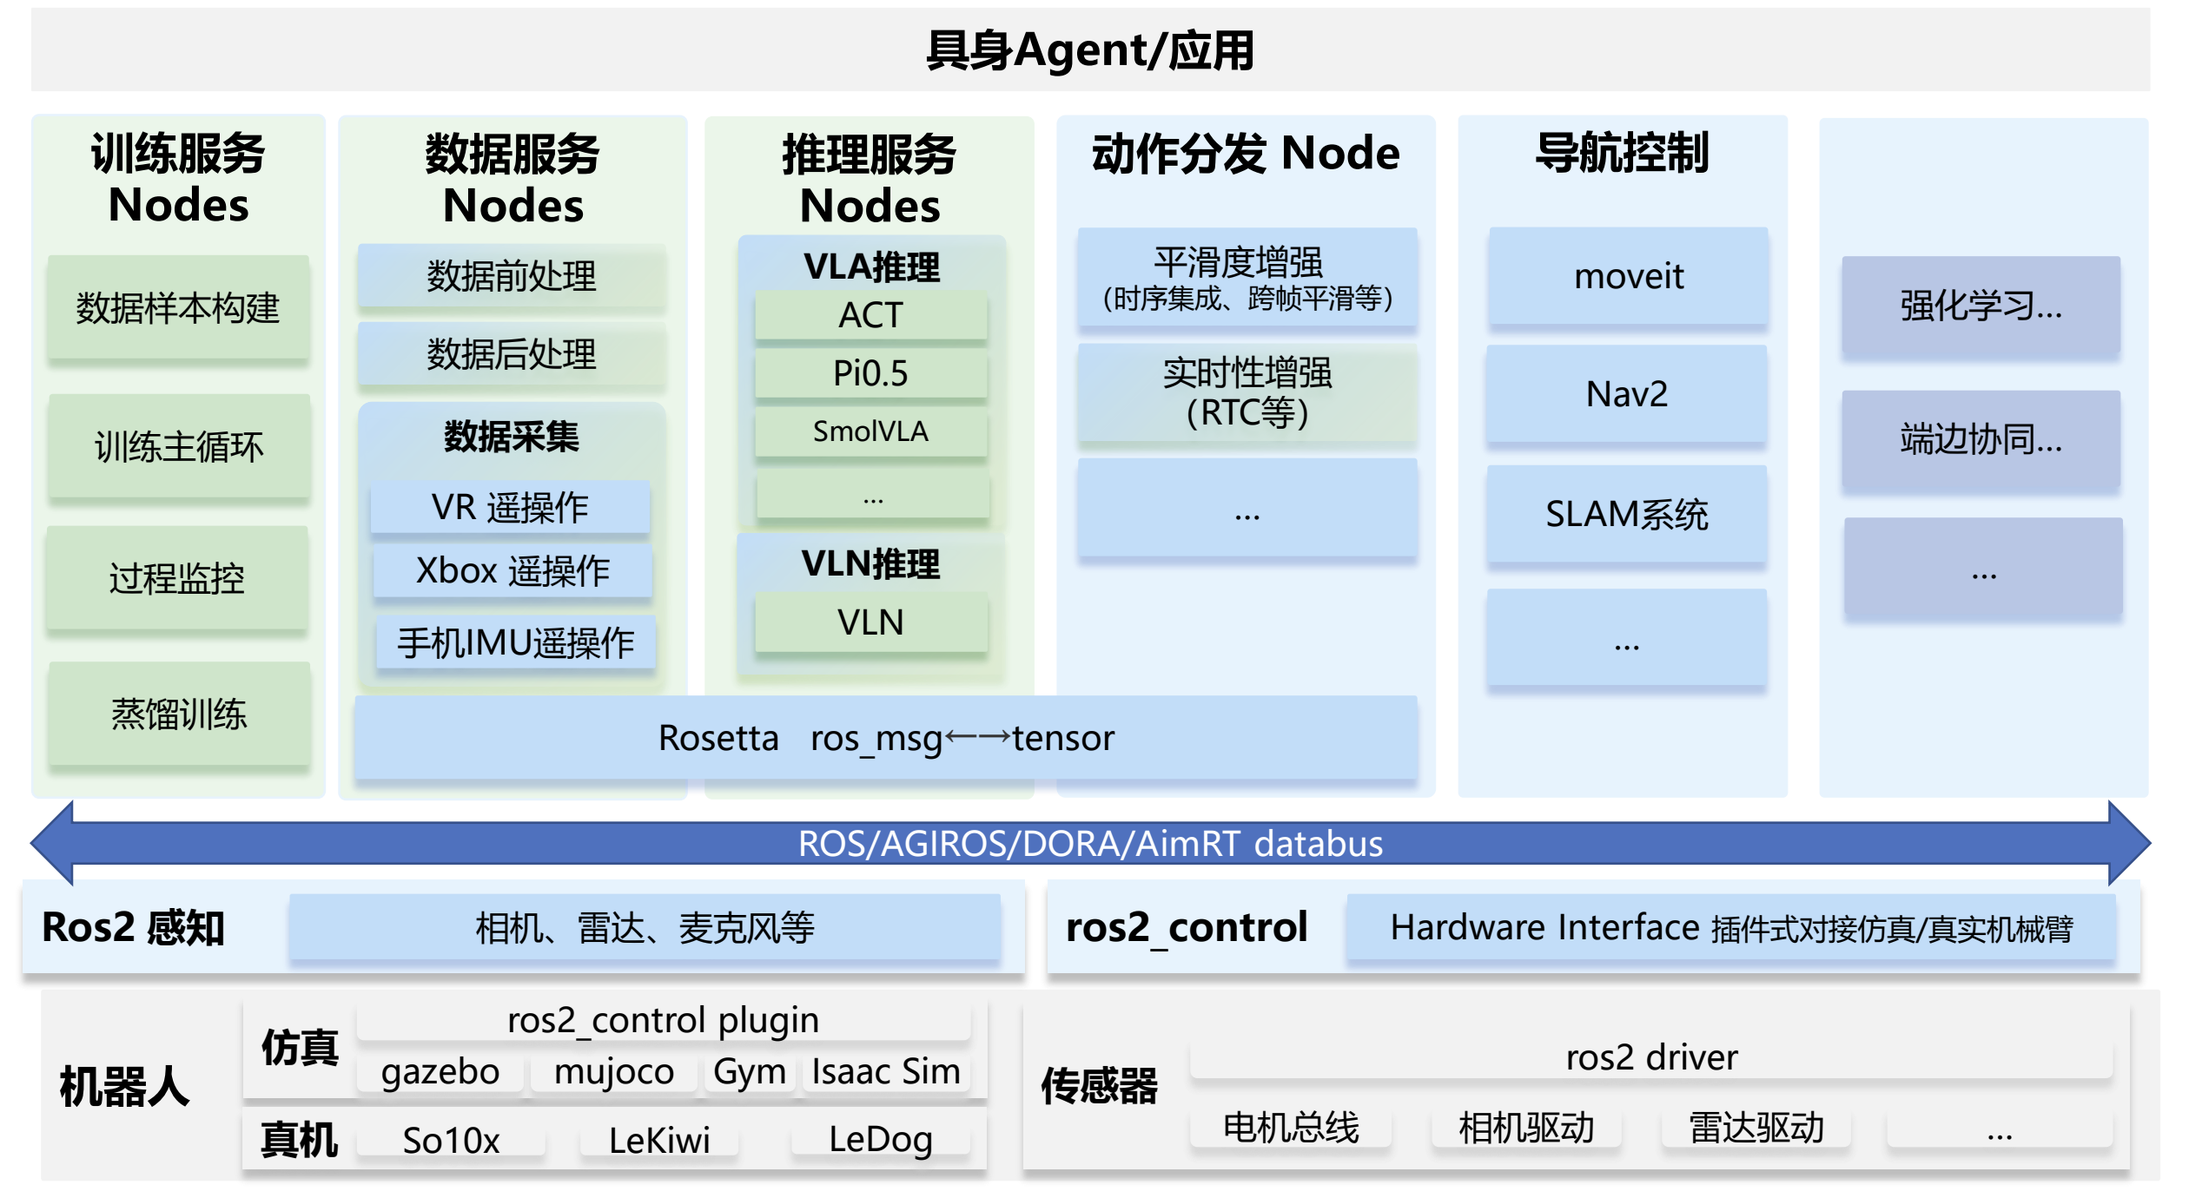
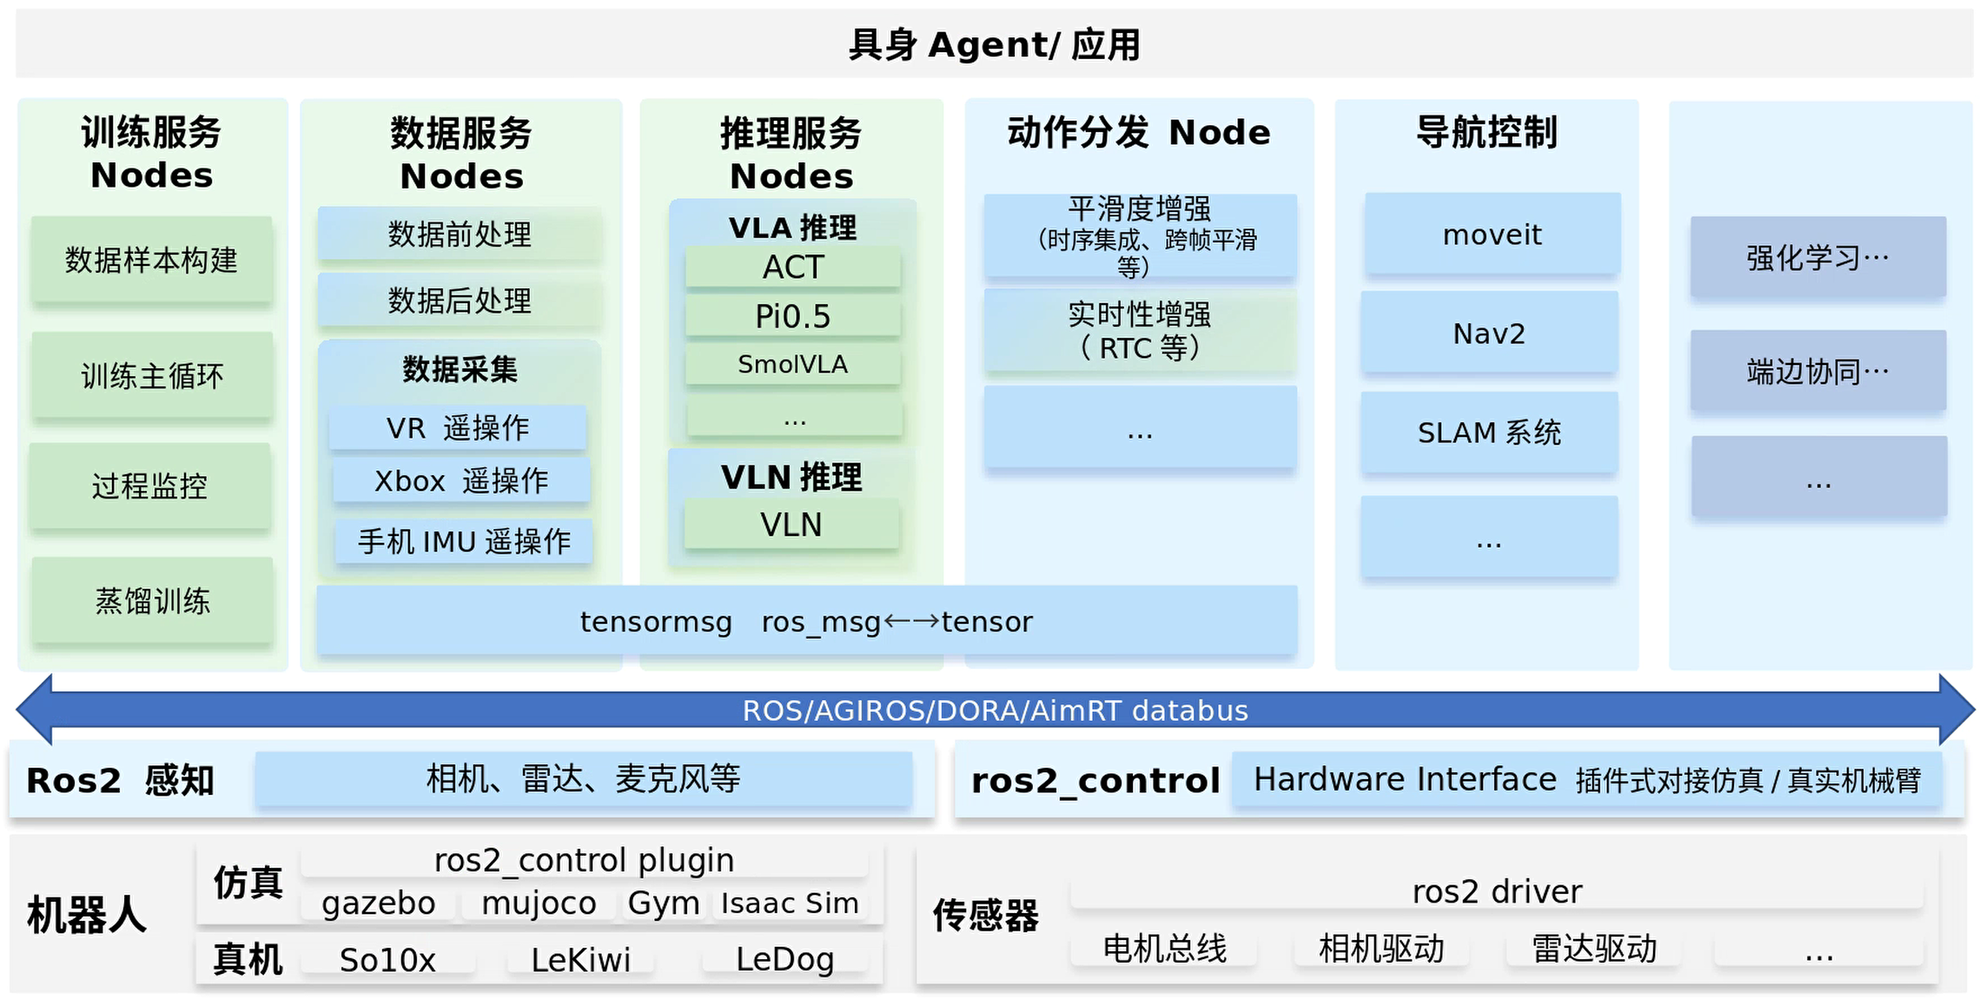
docs: sync architecture and rename legacy control modes
Update READMEs and architectural documentation to reflect the removal of
'rosetta' and 'robot_interface' packages. Sync 'teleop_act' to
'model_inference' across all configuration and documentation files.

- Remove all 'rosetta' and 'robot_interface' mentions in READMEs.
- Update 'docs/architecture.md' and 'docs/roadmap.md' to current status.
- Rename 'teleop_act' mode to 'model_inference' in robot_config YAMLs.
- Update launch builders to search in 'robot_config/config/contracts'.
- Clean up 'tensormsg' docstrings and comments.

diff --git a/src/robot_config/robot_config/launch_builders/recording.py b/src/robot_config/robot_config/launch_builders/recording.py
@@ -192,8 +192,8 @@ def find_contract_path(robot_name: str) -> str:
         Contract file path (absolute path)
 
     Search order:
-        1. rosetta package share directory: contracts/<robot_name>.yaml
-        2. Workspace relative path: src/rosetta/contracts/<robot_name>.yaml
+        1. robot_config package share directory: config/contracts/<robot_name>.yaml
+        2. Workspace relative path: src/robot_config/config/contracts/<robot_name>.yaml
         3. Fallback: act_grab_pan.yaml
     """
     contract_filename = f"{robot_name}.yaml"
@@ -201,8 +201,8 @@ def find_contract_path(robot_name: str) -> str:
     # Try package share directory
     try:
         from ament_index_python.packages import get_package_share_directory
-        rosetta_share = get_package_share_directory('rosetta')
-        contract_path = os.path.join(rosetta_share, 'contracts', contract_filename)
+        config_share = get_package_share_directory('robot_config')
+        contract_path = os.path.join(config_share, 'config', 'contracts', contract_filename)
         if os.path.exists(contract_path):
             return contract_path
     except:
@@ -211,18 +211,18 @@ def find_contract_path(robot_name: str) -> str:
     # Try workspace relative path
     workspace_root = find_workspace_root()
     if workspace_root:
-        contract_path = os.path.join(workspace_root, 'src', 'rosetta', 'contracts', contract_filename)
+        contract_path = os.path.join(workspace_root, 'src', 'robot_config', 'config', 'contracts', contract_filename)
         if os.path.exists(contract_path):
             return contract_path
 
     # Fallback to act_grab_pan.yaml
     if workspace_root:
-        fallback_path = os.path.join(workspace_root, 'src', 'rosetta', 'contracts', 'act_grab_pan.yaml')
+        fallback_path = os.path.join(workspace_root, 'src', 'robot_config', 'config', 'contracts', 'act_grab_pan.yaml')
         if os.path.exists(fallback_path):
             return fallback_path
 
     # Last resort: return expected path even if it doesn't exist
-    return f"src/rosetta/contracts/{contract_filename}"
+    return f"src/robot_config/config/contracts/{contract_filename}"
 
 
 def find_workspace_root() -> str:

diff --git a/src/tensormsg/tensormsg/converter.py b/src/tensormsg/tensormsg/converter.py
@@ -64,7 +64,7 @@ class TensorMsgConverter:
 
     @staticmethod
     def from_variant(msg, device: Optional[torch.device] = None) -> Dict[str, Any]:
-        """Decode a rosetta_interfaces/msg/VariantsList into a dictionary of Tensors."""
+        """Decode a ibrobot_msgs/msg/VariantsList into a dictionary of Tensors."""
         result = {}
         for variant_msg in msg.variants:
             result[str(variant_msg.key)] = _decode_variant(variant_msg, device)

diff --git a/src/robot_config/robot_config/loader.py b/src/robot_config/robot_config/loader.py
@@ -97,7 +97,7 @@ def load_contract_config(data: Dict[str, Any]) -> ContractExtensionConfig:
     Example:
     ```yaml
     contract:
-      base_contract: $(find rosetta)/contracts/act_grab_pan.yaml
+      base_contract: $(find robot_config)/config/contracts/act_grab_pan.yaml
       observations:
         - key: observation.images.top
           topic: /camera/top

diff --git a/docs/architecture.md b/docs/architecture.md
@@ -117,7 +117,6 @@ graph TB
         C1["控制框架<br/>ros2_control"]
         C2["硬件接口<br/>so101_hardware"]
         C3["模型描述<br/>robot_description"]
-        C4["机器人适配层<br/>robot_interface"]
     end
 
     subgraph "执行层 Execution"
@@ -127,7 +126,7 @@ graph TB
 
     subgraph "全局管理 Global"
         G1["配置中心<br/>robot_config"]
-        G2["接口标准定义<br/>tensormsg_interfaces"]
+        G2["接口标准定义<br/>ibrobot_msgs"]
     end
 
     %% 数据流
@@ -153,8 +152,6 @@ graph TB
     A3 -.-> C1
     
     C1 --> C2
-    C2 --> C4
-    C4 --> E1
     C1 -.-> E2
     
     C3 --> C1
@@ -238,6 +235,7 @@ IB-Robot 深度集成 ROS 2 Control，并在此基础上实现了：
 | 组件 | 状态 | 功能描述 |
 |------|------|----------|
 | **action_dispatch** | 已实现 | **统一动作执行器**。支持双模切换（Topic/Action），负责指令平滑、保护及状态上报。 |
+| **robot_teleop** | 已实现 | **遥操作控制**。提供 Leader-Follower 控制逻辑及外设接入能力。 |
 | **ledog_slam** | 已实现 | 提供基础的 SLAM 定位与 Nav2 导航能力。 |
 
 ---
@@ -250,7 +248,7 @@ IB-Robot 深度集成 ROS 2 Control，并在此基础上实现了：
 |------|------|----------|
 | **tensormsg** | 已实现 | **转换枢纽**。连接 ROS 2 环境与 LeRobot 模型，负责数据双向转换。 |
 | **inference_service** | 已实现 | 多模型推理框架，支持 VLA/SmolVLA/YOLO 等模型的容器化部署。 |
-| **tensormsg_interfaces** | 已废弃 | **[Legacy]** 系统统一接口定义 (由各模块内部定义替代)。 |
+| **dataset_tools** | 已实现 | **数据集工具箱**。负责 Episode 录制、MCAP 数据导出及 LeRobot 格式转换。 |
 
 ---
 
@@ -263,7 +261,6 @@ IB-Robot 深度集成 ROS 2 Control，并在此基础上实现了：
 | **robot_config** | 已实现 | **配置中心**。管理全系统的规格文件（YAML），作为唯一真相来源。 |
 | **robot_description** | 已实现 | 统一管理机器人 URDF/SRDF 及相关 Mesh 资产。 |
 | **so101_hardware** | 已实现 | SO-101 舵机臂的实机驱动实现。 |
-| **robot_interface** | 已废弃 | **[Legacy]** 机器人适配抽象层 (功能已迁移至 robot_config)。 |
 
 ---
 
@@ -277,17 +274,18 @@ IB-Robot 深度集成 ROS 2 Control，并在此基础上实现了：
 
 ### Phase 2: 感知增强与验证 🔧
 - [x] 基础视觉传感器接入 (USB/RealSense)
+- [x] 接口定义统一化 (`ibrobot_msgs`)
 - [ ] 自动化配置一致性验证脚本 (validate_config)
 - [ ] 传感器外参在线标定工具
 
-### Phase 3: 高级智能与采集 🚧
-- [ ] 跨包数据闭环：从演示采集到自动导出数据集
+### Phase 3: 高级智能与采集 ✅
+- [x] 数据闭环：从演示采集到自动导出数据集 (`dataset_tools`)
+- [x] 多源遥操作接口 (`robot_teleop`)
 - [ ] 交互式调试工具：Attention 热力图可视化
-- [ ] 多源遥操作接口 (VR / Leader-Follower)
 
 ---
 
-## 快速开始
+**最后更新**：2026-03-09
 
 ### 1. 初始化环境
 ```bash

diff --git a/README.md b/README.md
@@ -55,13 +55,14 @@ IB_Robot/                           # 主工作空间 (本仓库)
 ├── src/                            # [子模块] 核心源码包集合
 │   ├── robot_config/               # 系统总控、规格定义与启动入口
 │   ├── action_dispatch/            # 统一动作执行器 (双模支持)
-│   ├── rosetta/                    # LeRobot ↔ ROS 2 协议转换枢纽 (拟更名为 tensormsg)
+│   ├── tensormsg/                  # LeRobot ↔ ROS 2 协议转换枢纽 (张量与消息转换)
+│   ├── ibrobot_msgs/               # 系统统一接口定义 (Message/Action)
+│   ├── dataset_tools/              # 数据集采集与转换工具 (Episode Recorder)
+│   ├── robot_teleop/               # 遥操作控制实现 (Leader-Follower/控制器)
 │   ├── robot_description/          # 统一机器人 URDF/SRDF 模型描述
-│   ├── robot_moveit/               # MoveIt 2运动规划集成
+│   ├── robot_moveit/               # MoveIt 2 运动规划集成
 │   ├── inference_service/          # 多模型推理与部署服务
 │   ├── so101_hardware/             # SO-101 电机驱动接口
-│   ├── robot_interface/            # [已废弃] 机器人适配抽象层 (由 robot_config 替代)
-│   ├── rosetta_interfaces/         # [已协定] 系统统一接口定义
 │   └── workflows/                  # CI/CD 配置
 │
 ├── docs/                           # 深度架构文档与开发指南
@@ -148,7 +149,7 @@ ros2 launch robot_config robot.launch.py robot_config:=so101_single_arm use_sim:
 
 ### 手动覆盖自动检测
 ```bash
-ros2 launch robot_config robot.launch.py control_mode:=teleop_act with_inference:=true use_sim:=true
+ros2 launch robot_config robot.launch.py control_mode:=model_inference with_inference:=true use_sim:=true
 ```
 
 ---
@@ -160,7 +161,7 @@ ros2 launch robot_config robot.launch.py control_mode:=teleop_act with_inference
 | `robot_config` | 机器人配置名称 (对应 `config/robots/` 下的 YAML) | `so101_single_arm` |
 | `config_path` | 配置文件绝对路径 (可选，覆盖 `robot_config`) | 空 |
 | `use_sim` | 是否使用 Gazebo 仿真模式 | `false` |
-| `control_mode` | 覆盖默认控制模式 (`teleop_act` / `moveit_planning`) | 从 YAML 读取 |
+| `control_mode` | 覆盖默认控制模式 (`model_inference` / `moveit_planning` / `teleop`) | 从 YAML 读取 |
 | `with_inference` | 强制启用/禁用推理服务 (空则自动检测) | 空 |
 | `with_moveit` | 强制启用/禁用 MoveIt 核心 (空则自动检测) | 空 |
 | `moveit_display` | 是否启动 MoveIt RViz 可视化界面 | `true` |

diff --git a/README.en.md b/README.en.md
@@ -56,13 +56,14 @@ IB_Robot/                           # Main Workspace
 ├── src/                            # [Submodule] Core source packages
 │   ├── robot_config/               # System master control and specs
 │   ├── action_dispatch/            # Unified action dispatcher (Dual-mode)
-│   ├── rosetta/                    # LeRobot ↔ ROS 2 Hub (To be renamed to tensormsg)
+│   ├── tensormsg/                  # LeRobot ↔ ROS 2 Hub (Tensor & Message conversion)
+│   ├── ibrobot_msgs/               # Unified system interfaces (Message/Action)
+│   ├── dataset_tools/              # Dataset collection & conversion (Episode Recorder)
+│   ├── robot_teleop/               # Teleoperation implementation (Leader-Follower)
 │   ├── robot_description/          # Unified URDF/SRDF descriptions
 │   ├── robot_moveit/               # MoveIt 2 motion planning integration
 │   ├── inference_service/          # Multi-model inference service
 │   ├── so101_hardware/             # SO-101 motor driver interface
-│   ├── robot_interface/            # [Deprecated] Replaced by robot_config
-│   ├── rosetta_interfaces/         # [Agreed] Unified system interfaces
 │   └── workflows/                  # CI/CD configuration
 │
 ├── docs/                           # Detailed architecture and dev guides
@@ -149,7 +150,7 @@ ros2 launch robot_config robot.launch.py robot_config:=so101_single_arm use_sim:
 
 ### Manual Override (Advanced Debugging)
 ```bash
-ros2 launch robot_config robot.launch.py control_mode:=teleop_act with_inference:=true use_sim:=true
+ros2 launch robot_config robot.launch.py control_mode:=model_inference with_inference:=true use_sim:=true
 ```
 
 ---
@@ -161,7 +162,7 @@ ros2 launch robot_config robot.launch.py control_mode:=teleop_act with_inference
 | `robot_config` | Robot config name (matches YAML in `config/robots/`) | `so101_single_arm` |
 | `config_path` | Absolute path to config file (overrides `robot_config`) | Empty |
 | `use_sim` | Use Gazebo simulation mode | `false` |
-| `control_mode` | Override default mode (`teleop_act` / `moveit_planning`) | From YAML |
+| `control_mode` | Override default mode (`model_inference` / `moveit_planning` / `teleop`) | From YAML |
 | `with_inference`| Force enable/disable inference service | Auto-detect |
 | `with_moveit`   | Force enable/disable MoveIt core | Auto-detect |
 | `moveit_display`| Launch MoveIt RViz interface | `true` |

diff --git a/src/robot_config/README.md b/src/robot_config/README.md
@@ -8,7 +8,7 @@ ros2_control 和外设的统一机器人配置系统。
 
 - **ros2_control**：用于关节/电机控制接口
 - **外设**：用于相机和其他设备（通过现有 ROS2 驱动）
-- **Rosetta**：用于 ML 策略 I/O 契约
+- **tensormsg**：用于 ML 策略 I/O 契约
 
 目标是建立机器人硬件配置的单一数据源，消除不同配置系统之间的重复。
 
@@ -20,7 +20,7 @@ ros2_control 和外设的统一机器人配置系统。
   - `realsense2_camera` 用于 RealSense D400 系列
 - **TF 发布**：自动发布相机坐标系变换
 - **标定支持**：标准 ROS2 camera_info_manager 集成
-- **Rosetta 集成**：契约通过名称引用外设
+- **tensormsg 集成**：契约通过名称引用外设
 
 ## 架构
 
@@ -34,7 +34,7 @@ robot_config YAML（单一数据源）
         │       ├───► usb_cam（USB 相机）
         │       └───► realsense2_camera（RealSense D400）
         │
-        └───► Rosetta 契约（ML I/O）
+        └───► tensormsg 契约（ML I/O）
                 └───► PolicyBridge / EpisodeRecorder
 ```
 
@@ -319,7 +319,7 @@ ros2 launch robot_config robot.launch.py control_mode:=moveit_planning use_sim:=
 **解决方案：** 检查配置，确保每种模式使用互斥的控制器：
 ```yaml
 control_modes:
-  teleop_act:
+  model_inference:
     controllers:
       - arm_position_controller      # 位置控制器
   moveit_planning:
@@ -433,9 +433,9 @@ ros2 run camera_calibration cameracalibrator \
   image:=/camera/top/image_raw
 ```
 
-## Rosetta 集成
+## tensormsg 集成
 
-robot_config 通过允许观察通过名称引用外设来与 rosetta 契约集成：
+robot_config 通过允许观察通过名称引用外设来与 tensormsg 契约集成：
 
 ```yaml
 # 在 robot_config 中
@@ -455,7 +455,6 @@ contract:
 
 当契约加载时，将自动包含外设定义中的相机元数据。
 
-## 从 robot_interface 迁移
 
 旧的 `robot_interface` 包直接使用 LeRobot 的 Robot 类。本包替换为：
 

diff --git a/src/robot_config/README.en.md b/src/robot_config/README.en.md
@@ -8,7 +8,7 @@ This package provides a unified configuration system for robot hardware that bri
 
 - **ros2_control**: For joint/motor control interfaces
 - **Peripherals**: For cameras and other devices (via existing ROS2 drivers)
-- **Rosetta**: For ML policy I/O contracts
+- **tensormsg**: For ML policy I/O contracts
 
 The goal is to have a single source of truth for robot hardware configuration, eliminating duplication between different configuration systems.
 
@@ -20,7 +20,7 @@ The goal is to have a single source of truth for robot hardware configuration, e
   - `realsense2_camera` for RealSense D400 series
 - **TF publishing**: Automatic camera frame transform publishing
 - **Calibration support**: Standard ROS2 camera_info_manager integration
-- **Rosetta integration**: Contracts reference peripherals by name
+- **tensormsg integration**: Contracts reference peripherals by name
 
 ## Architecture
 
@@ -34,7 +34,7 @@ robot_config YAML (single source of truth)
         │       ├───► usb_cam (USB cameras)
         │       └───► realsense2_camera (RealSense D400)
         │
-        └───► Rosetta contracts (ML I/O)
+        └───► tensormsg contracts (ML I/O)
                 └───► PolicyBridge / EpisodeRecorder
 ```
 
@@ -498,9 +498,9 @@ ros2 run camera_calibration cameracalibrator \
   image:=/camera/top/image_raw
 ```
 
-## Rosetta Integration
+## tensormsg Integration
 
-The robot_config integrates with rosetta contracts by allowing observations to reference peripherals by name:
+The robot_config integrates with tensormsg contracts by allowing observations to reference peripherals by name:
 
 ```yaml
 # In robot_config
@@ -520,7 +520,6 @@ contract:
 
 When the contract is loaded, it will automatically include the camera metadata from the peripheral definition.
 
-## Migration from robot_interface
 
 The old `robot_interface` package used LeRobot's Robot class directly. This package replaces it with:
 

diff --git a/src/README.md b/src/README.md
@@ -25,7 +25,7 @@ graph TD
     %% 执行层
     Init --> InfSrv[inference_service]
     Init --> Dispatch[action_dispatch]
-    Init --> Bridge[rosetta / tensormsg]
+    Init --> Bridge[tensormsg]
     
     %% 数据闭环
     subgraph "决策与调度 (Decision & Dispatch)"
@@ -62,10 +62,10 @@ graph TD
 ### 3. 📂 `action_dispatch` — 动作调度与安全小脑
 负责将高层张量转化为机器人可执行的连贯动作。
 - **Action Chunking**: 管理长序列动作块，内置线性插值逻辑，确保关节运动平滑无抖动。
-- **双模支持**: 同时支持 `teleop_act`（高频话题）和 `moveit_planning`（轨迹动作）两种执行模式。
+- **双模支持**: 同时支持 `model_inference`（高频话题）和 `moveit_planning`（轨迹动作）两种执行模式。
 - **水位线监控**: 实时监控动作队列状态，在数据中断时提供 Hold/Stop 等安全降级策略。
 
-### 4. 📂 `rosetta` — LeRobot ↔ ROS 2 协议枢纽
+### 4. 📂 `tensormsg` — LeRobot ↔ ROS 2 协议枢纽
 *(拟更名为 `tensormsg`)*
 - **实时序列化**: 实现 ROS 2 消息与 NumPy/Torch 张量之间的高性能转换。
 - **时戳对齐**: 采用 `asof` 采样策略，确保多传感器观测数据在时间轴上精确对齐。
@@ -92,7 +92,7 @@ graph TD
 | :--- | :--- |
 | **全量编译** | `./scripts/build.sh` |
 | **启动 MoveIt 调试** | `ros2 launch robot_config robot.launch.py control_mode:=moveit_planning use_sim:=true` |
-| **启动 AI 推理** | `ros2 launch robot_config robot.launch.py control_mode:=teleop_act use_sim:=true with_inference:=true` |
+| **启动 AI 推理** | `ros2 launch robot_config robot.launch.py control_mode:=model_inference use_sim:=true with_inference:=true` |
 | **配置一致性检查** | `python3 scripts/validate_config.py` |
 
 ---

diff --git a/docs/roadmap.md b/docs/roadmap.md
@@ -71,7 +71,7 @@ graph TD
 
 | 功能 | 包 | 状态 |
 |------|-----|------|
-| 策略执行桥接 | rosetta | ✅ |
+| 策略执行桥接 | tensormsg | ✅ |
 | SO-101 硬件驱动 | so101_hardware | ✅ |
 | 统一配置系统 | robot_config | ✅ |
 | 机器人描述 | lerobot_description | ✅ |
@@ -88,7 +88,6 @@ graph TD
 
 | 功能 | 描述 | 优先级 | 预计工作量 |
 |------|------|--------|-----------|
-| 机器人抽象 API | 在 robot_config 中实现统一 API，取代 robot_interface | ⭐⭐⭐⭐⭐ | 3-4 周 |
 | 动作优化调度 | 时序集成、平滑处理、安全监控 | ⭐⭐⭐⭐ | 4-6 周 |
 | 数据转换流水线 | Rosbag2 → LeRobot 格式转换工具 | ⭐⭐⭐⭐ | 3-5 周 |
 
@@ -169,7 +168,6 @@ graph TD
 
 | 问题 | 影响 | 优先级 | 计划修复 |
 |------|------|--------|---------|
-| `robot_interface` 重构 | 架构耦合 | ⭐⭐⭐⭐⭐ | 阶段 2 |
 | 测试覆盖率不足 | 稳定性 | ⭐⭐⭐⭐ | 阶段 2 |
 | 话题命名规范化 | 维护成本 | ⭐⭐⭐ | 阶段 3 |
 | 跨平台仿真兼容性 | 开发效率 | ⭐⭐⭐⭐ | 阶段 2 |

diff --git a/src/action_dispatch/README.md b/src/action_dispatch/README.md
@@ -432,7 +432,6 @@ print(f"Smoothing enabled: {manager.is_enabled}")
 - PyTorch
 - NumPy
 - ibrobot_msgs
-- rosetta
 - tensormsg
 
 ## 许可证

diff --git a/src/action_dispatch/README.en.md b/src/action_dispatch/README.en.md
@@ -439,7 +439,6 @@ print(f"Smoothing enabled: {manager.is_enabled}")
 - PyTorch
 - NumPy
 - ibrobot_msgs
-- rosetta
 - tensormsg
 
 ## License
